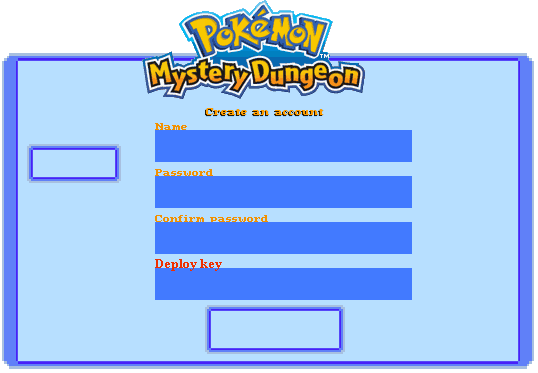
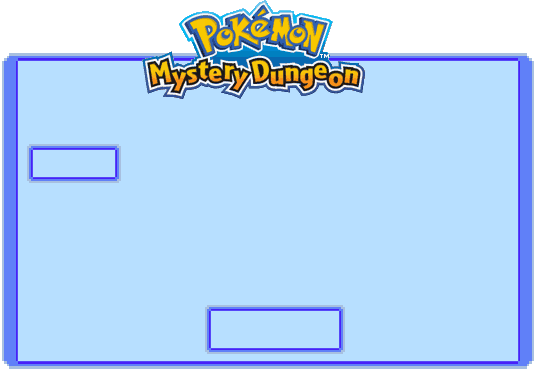
CreateAccount screen now uses fonts

Changed region(s): [[0.2677, 0.2949, 0.7732, 0.8257]]

diff --git a/PMDMMOc/src/com/darkxell/client/resources/Res.java b/PMDMMOc/src/com/darkxell/client/resources/Res.java
@@ -1,5 +1,6 @@
 package com.darkxell.client.resources;
 
+import java.awt.Font;
 import java.awt.image.BufferedImage;
 import java.io.BufferedReader;
 import java.io.File;
@@ -14,129 +15,153 @@ import javax.imageio.ImageIO;
 import com.darkxell.common.util.Logger;
 
 /** Class that holds commonly used resources utility. */
-public class Res
-{
+public class Res {
 
 	private static final int MAXMESSAGES = 5;
 
 	private static int messagecounter = 0;
 
-	/** Gets a part of a buffered Image. This method is safe: if the dimensions specified are out of the image's bound, this will throw no exception but may return unexpected results. */
-	public static BufferedImage createimage(BufferedImage image, int x, int y, int width, int height)
-	{
-		if (width > image.getWidth() || height > image.getHeight()) return image;
-		if (x + width > image.getWidth()) x = image.getWidth() - width;
-		if (y + height > image.getHeight()) y = image.getHeight() - height;
+	/**
+	 * Gets a part of a buffered Image. This method is safe: if the dimensions
+	 * specified are out of the image's bound, this will throw no exception but
+	 * may return unexpected results.
+	 */
+	public static BufferedImage createimage(BufferedImage image, int x, int y, int width, int height) {
+		if (width > image.getWidth() || height > image.getHeight())
+			return image;
+		if (x + width > image.getWidth())
+			x = image.getWidth() - width;
+		if (y + height > image.getHeight())
+			y = image.getHeight() - height;
 		return image.getSubimage(x, y, width, height);
 	}
 
-	/** @param path - Path to a resource.
-	 * @return True if the resource exists. */
-	public static boolean exists(String path)
-	{
+	/**
+	 * @param path
+	 *            - Path to a resource.
+	 * @return True if the resource exists.
+	 */
+	public static boolean exists(String path) {
 		return Res.class.getResourceAsStream(path) != null;
 	}
 
-	public static InputStream get(String path)
-	{
+	public static InputStream get(String path) {
 		return Res.class.getResourceAsStream(path);
 	}
 
 	/** Gets an image from the res folder as a BufferedImage. */
-	public static BufferedImage getBase(String path)
-	{
+	public static BufferedImage getBase(String path) {
 		BufferedImage img = null;
 
-		try
-		{
+		try {
 			InputStream is = Res.class.getResourceAsStream(path);
 			img = ImageIO.read(is);
-		} catch (Exception e)
-		{
-			try
-			{
+		} catch (Exception e) {
+			try {
 				img = ImageIO.read(new File(path));
-			} catch (Exception e1)
-			{
+			} catch (Exception e1) {
 				Logger.e("Could not read the following image file : " + path + "\nerrors : " + e + " / " + e1);
 			}
 		}
-		if (messagecounter < MAXMESSAGES)
-		{
+		if (messagecounter < MAXMESSAGES) {
 			Logger.i("Loaded resource from hard memory : " + path);
 			messagecounter++;
-		} else if (messagecounter == MAXMESSAGES)
-		{
+		} else if (messagecounter == MAXMESSAGES) {
 			Logger.i("Disabled the \"loaded resource from hard memory\" message for future loads");
 			messagecounter++;
 		}
 		return img;
 	}
 
-	public static String[] getResourceFiles(String path)
-	{
+	public static String[] getResourceFiles(String path) {
 		List<String> filenames = new ArrayList<>();
 
-		try
-		{
+		try {
 			InputStream in = Res.class.getResourceAsStream(path);
 			BufferedReader br = new BufferedReader(new InputStreamReader(in));
 			String resource;
 
-			while ((resource = br.readLine()) != null)
-			{
+			while ((resource = br.readLine()) != null) {
 				filenames.add(resource);
 			}
-		} catch (Exception e)
-		{
+		} catch (Exception e) {
 			e.printStackTrace();
 		}
 
 		return filenames.toArray(new String[filenames.size()]);
 	}
 
-	/** Basically the same a s a getspriterow command, but the sprite doesn't have to be a square.
+	/**
+	 * Basically the same a s a getspriterow command, but the sprite doesn't
+	 * have to be a square.
 	 * 
-	 * @see <code>getSpriteRow()</code> */
-	public static BufferedImage[] getSpriteRectRow(BufferedImage sheet, int x, int y, int width, int height, int spritesAmmount)
-	{
+	 * @see <code>getSpriteRow()</code>
+	 */
+	public static BufferedImage[] getSpriteRectRow(BufferedImage sheet, int x, int y, int width, int height,
+			int spritesAmmount) {
 		BufferedImage[] toreturn = new BufferedImage[spritesAmmount];
 		for (int i = 0; i < toreturn.length; i++)
 			toreturn[i] = Res.createimage(sheet, x + (i * width), y, width, height);
 		return toreturn;
 	}
 
-	/** Gets multiple player sprites next to each other in the specified BufferImage sheet file and returns them inside an array.
+	/**
+	 * Gets multiple player sprites next to each other in the specified
+	 * BufferImage sheet file and returns them inside an array.
 	 * 
-	 * @param x the X position of the sprite in the player.png file.
-	 * @param y the Y position of the sprite in the player.png file.
-	 * @param size the size of the sprite. The sprite is a square, and the x/y coordinates are its top left corner.
-	 * @param spritesAmmount the amount of sprites in the array. Also the length of the array, obviously. */
-	public static BufferedImage[] getSpriteRow(BufferedImage sheet, int x, int y, int size, int spritesAmmount)
-	{
+	 * @param x
+	 *            the X position of the sprite in the player.png file.
+	 * @param y
+	 *            the Y position of the sprite in the player.png file.
+	 * @param size
+	 *            the size of the sprite. The sprite is a square, and the x/y
+	 *            coordinates are its top left corner.
+	 * @param spritesAmmount
+	 *            the amount of sprites in the array. Also the length of the
+	 *            array, obviously.
+	 */
+	public static BufferedImage[] getSpriteRow(BufferedImage sheet, int x, int y, int size, int spritesAmmount) {
 		return getSpriteRectRow(sheet, x, y, size, size, spritesAmmount);
 	}
 
-	public static String[] readFile(String path)
-	{
+	public static String[] readFile(String path) {
 		InputStream is = get(path);
-		if (is == null) return null;
+		if (is == null)
+			return null;
 
 		String content = "";
 		int c = -1;
-		try
-		{
-			while ((c = is.read()) != -1)
-			{
-				if (c == 13) continue;
+		try {
+			while ((c = is.read()) != -1) {
+				if (c == 13)
+					continue;
 				content += ((char) c);
 			}
-		} catch (IOException e)
-		{
+		} catch (IOException e) {
 			e.printStackTrace();
 		}
 
 		return content.split("\n");
+	}
+
+	private static Font mysterydungeonfont = null;
+
+	/**
+	 * Gets the mystery dungeon font. if it can't get it, will return a default
+	 * font, most likely Arial. The returned font is PLAIN and has a point size
+	 * of 1.
+	 */
+	public static Font getFont() {
+		if (mysterydungeonfont == null) {
+			try {
+				mysterydungeonfont = Font.createFont(Font.TRUETYPE_FONT, new File("resources/mysterydungeon.ttf"));
+			} catch (Exception e) {
+				Logger.e("Could not load mystery dungeon font!");
+				e.printStackTrace();
+				mysterydungeonfont = new Font("Arial", Font.PLAIN, 1);
+			}
+		}
+		return mysterydungeonfont;
 	}
 
 }

diff --git a/PMDMMOc/src/com/darkxell/client/state/mainstates/AccountCreationState.java b/PMDMMOc/src/com/darkxell/client/state/mainstates/AccountCreationState.java
@@ -1,6 +1,7 @@
 package com.darkxell.client.state.mainstates;
 
 import java.awt.Color;
+import java.awt.Font;
 import java.awt.Graphics2D;
 import java.awt.event.KeyEvent;
 
@@ -8,6 +9,7 @@ import com.darkxell.client.launchable.GameSocketEndpoint;
 import com.darkxell.client.launchable.Persistance;
 import com.darkxell.client.launchable.crypto.Encryption;
 import com.darkxell.client.mechanics.chat.CustomTextfield;
+import com.darkxell.client.resources.Res;
 import com.darkxell.client.resources.images.Sprites;
 import com.darkxell.client.state.StateManager;
 import com.darkxell.client.ui.Keys.Key;
@@ -125,27 +127,56 @@ public class AccountCreationState extends StateManager {
 	}
 
 	private DoubleRectangle textfield_login = new DoubleRectangle(155, 130, 257, 32);
-	private DoubleRectangle textfield_pass = new DoubleRectangle(155, 176, 257, 32);
-	private DoubleRectangle textfield_confirm = new DoubleRectangle(155, 222, 257, 32);
-	private DoubleRectangle textfield_deploykey = new DoubleRectangle(155, 268, 257, 32);
+	private DoubleRectangle textfield_pass = new DoubleRectangle(155, 176, textfield_login.width / 2 - 10, 32);
+	private DoubleRectangle textfield_confirm = new DoubleRectangle(165 + textfield_login.width / 2, 176,
+			textfield_login.width / 2 - 10, 32);
+	private DoubleRectangle textfield_deploykey = new DoubleRectangle(155, 222, 257, 32);
 	private DoubleRectangle button_create = new DoubleRectangle(211, 311, 128, 38);
 	private DoubleRectangle button_back = new DoubleRectangle(33, 150, 82, 27);
 
 	@Override
 	public void render(Graphics2D g, int width, int height) {
+		Graphics2D gcopy = (Graphics2D) g.create();
 		MainUiUtility.drawBackground(g, width, height, (byte) 2);
 		offsetx = width / 2 - squarewidth / 2;
 		offsety = height / 2 - squareheight / 2;
 		int relativemousex = mouseX - offsetx, relativemousey = mouseY - offsety;
 		g.translate(offsetx, offsety);
+		gcopy.translate(offsetx, offsety);
 		// DRAWS THE ACCOUNT CREATION FACILITIES
 		g.drawImage(Sprites.Res_Hud.createaccountframe.image(), 0, 0, null);
 
-		g.setColor(Color.RED);
-		g.drawString(errormessage, 155, 143);
-		g.setColor(new Color(4, 142, 52));
-		g.drawString(assessmessage, 185, 355);
+		gcopy.setColor(Color.BLACK);
+		gcopy.setFont(Res.getFont().deriveFont(26f).deriveFont(Font.BOLD));
+		gcopy.drawString("Create an account", 195, 112);
+		gcopy.setColor(new Color(242, 145, 0));
+		gcopy.drawString("Create an account", 197, 113);
 
+		gcopy.setColor(Color.RED);
+		gcopy.setFont(Res.getFont().deriveFont(22f));
+		gcopy.drawString(errormessage, 80, 295);
+		gcopy.setColor(new Color(4, 142, 52));
+		gcopy.drawString(assessmessage, 185, 355);
+
+		// Draws the textfield backgrounds
+		g.setColor(new Color(66, 122, 255));
+		g.fillRect((int) textfield_login.x, (int) textfield_login.y, (int) textfield_login.width,
+				(int) textfield_login.height);
+		g.fillRect((int) textfield_pass.x, (int) textfield_pass.y, (int) textfield_pass.width,
+				(int) textfield_pass.height);
+		g.fillRect((int) textfield_confirm.x, (int) textfield_confirm.y, (int) textfield_confirm.width,
+				(int) textfield_confirm.height);
+		g.fillRect((int) textfield_deploykey.x, (int) textfield_deploykey.y, (int) textfield_deploykey.width,
+				(int) textfield_deploykey.height);
+
+		gcopy.setColor(new Color(242, 145, 0));
+		gcopy.setFont(Res.getFont().deriveFont(20f).deriveFont(Font.BOLD));
+		gcopy.drawString("Name", (int) textfield_login.x, (int) textfield_login.y);
+		gcopy.drawString("Password", (int) textfield_pass.x, (int) textfield_pass.y);
+		gcopy.drawString("Confirm", (int) textfield_confirm.x, (int) textfield_confirm.y);
+		gcopy.drawString("Deploy Key", (int) textfield_deploykey.x, (int) textfield_deploykey.y);
+
+		// Draws the textfields elements
 		g.translate(textfield_login.x + 10, textfield_login.y);
 		this.login.render(g, (int) textfield_login.width - 20, (int) textfield_login.height - 15);
 		g.translate(-textfield_login.x - 10, -textfield_login.y);
@@ -157,25 +188,28 @@ public class AccountCreationState extends StateManager {
 		g.translate(textfield_confirm.x + 10, textfield_confirm.y);
 		this.confirm.render(g, (int) textfield_confirm.width - 20, (int) textfield_confirm.height - 15);
 		g.translate(-textfield_confirm.x - 10, -textfield_confirm.y);
-		
+
 		g.translate(textfield_deploykey.x + 10, textfield_deploykey.y);
 		this.deploykey.render(g, (int) textfield_deploykey.width - 20, (int) textfield_deploykey.height - 15);
 		g.translate(-textfield_deploykey.x - 10, -textfield_deploykey.y);
 
+		// Draws the buttons
+		gcopy.setFont(Res.getFont().deriveFont(24f).deriveFont(Font.BOLD));
 		Color buttoncolor = new Color(124, 163, 255), selectedbuttoncolor = new Color(183, 222, 255);
-		g.setColor((button_create.isInside(new Position(relativemousex, relativemousey))) ? selectedbuttoncolor
+		gcopy.setColor((button_create.isInside(new Position(relativemousex, relativemousey))) ? selectedbuttoncolor
 				: buttoncolor);
-		g.fillRect((int) button_create.x, (int) button_create.y, (int) button_create.width, (int) button_create.height);
-		g.setColor(Color.BLACK);
-		g.drawString("CREATE ACCOUNT", (int) button_create.x + 8, (int) button_create.y + 25);
+		gcopy.fillRect((int) button_create.x, (int) button_create.y, (int) button_create.width, (int) button_create.height);
+		gcopy.setColor(new Color(30,15,210));
+		gcopy.drawString("Create account", (int) button_create.x + 6, (int) button_create.y + 25);
 
-		g.setColor((button_back.isInside(new Position(relativemousex, relativemousey))) ? selectedbuttoncolor
+		gcopy.setColor((button_back.isInside(new Position(relativemousex, relativemousey))) ? selectedbuttoncolor
 				: buttoncolor);
-		g.fillRect((int) button_back.x, (int) button_back.y, (int) button_back.width, (int) button_back.height);
-		g.setColor(Color.BLACK);
-		g.drawString("BACK", (int) button_back.x + 10, (int) button_back.y + 15);
+		gcopy.fillRect((int) button_back.x, (int) button_back.y, (int) button_back.width, (int) button_back.height);
+		gcopy.setColor(new Color(30,15,210));
+		gcopy.drawString("Back", (int) button_back.x + 10, (int) button_back.y + 18);
 
 		// REVERT GRAPHICS
+		gcopy.dispose();
 		g.translate(-offsetx, -offsety);
 	}
 

diff --git a/PMDMMOc/src/com/darkxell/client/mechanics/chat/CustomTextfield.java b/PMDMMOc/src/com/darkxell/client/mechanics/chat/CustomTextfield.java
@@ -1,6 +1,7 @@
 package com.darkxell.client.mechanics.chat;
 
 import java.awt.Color;
+import java.awt.Font;
 import java.awt.FontMetrics;
 import java.awt.Graphics2D;
 import java.awt.Rectangle;
